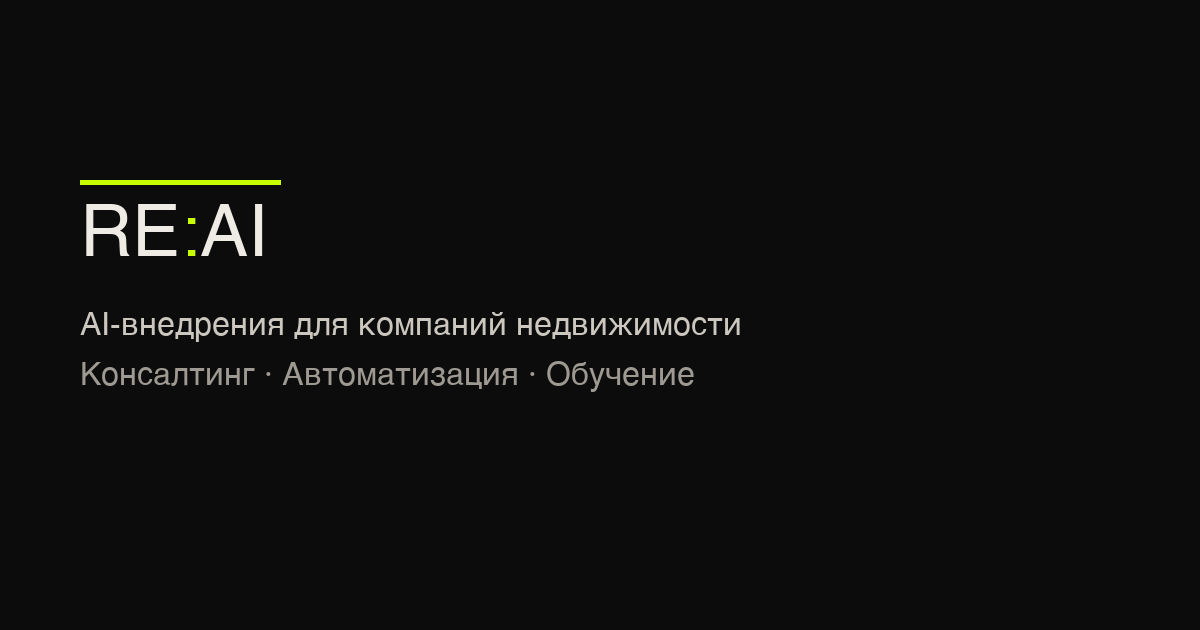
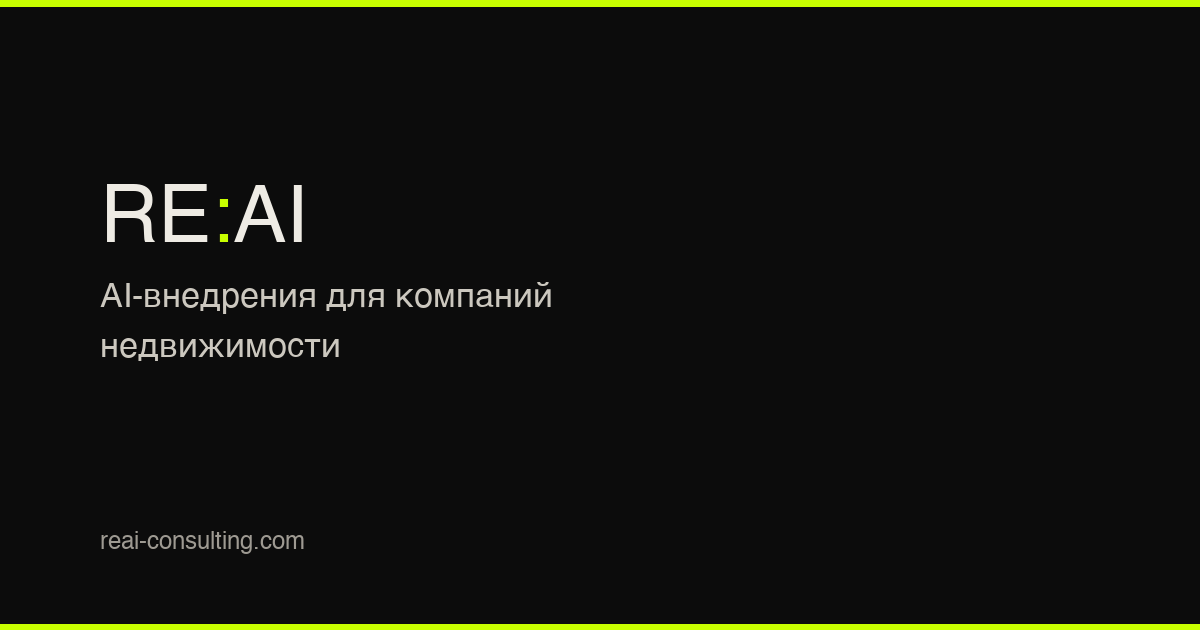
Improve OG preview, compress team photo (1.7MB→126KB), add meta tags
- Better OG image with branding
- og:image:width/height + twitter:image for Telegram/social previews
- theme-color + apple-mobile-web-app meta tags
- Team photo compressed and resized

diff --git a/src/index.html b/src/index.html
@@ -32,11 +32,18 @@
 <meta property="og:url" content="https://reai-consulting.com/">
 <meta property="og:locale" content="ru_RU">
 <meta property="og:image" content="https://reai-consulting.com/images/og-image.png">
+<meta property="og:image:width" content="1200">
+<meta property="og:image:height" content="630">
+<meta property="og:site_name" content="RE:AI">
 <meta name="twitter:card" content="summary_large_image">
 <meta name="twitter:title" content="RE:AI — AI-внедрения для недвижимости">
 <meta name="twitter:description" content="Внедряем AI так, чтобы он приносил деньги. Консалтинг, обучение и готовые продукты для рынка недвижимости.">
+<meta name="twitter:image" content="https://reai-consulting.com/images/og-image.png">
 <meta name="robots" content="index, follow">
 <link rel="canonical" href="https://reai-consulting.com/">
+<meta name="theme-color" content="#0c0c0c">
+<meta name="apple-mobile-web-app-capable" content="yes">
+<meta name="apple-mobile-web-app-status-bar-style" content="black-translucent">
 <link rel="icon" type="image/x-icon" href="/favicon.ico">
 <link rel="icon" type="image/png" sizes="32x32" href="/images/favicon-32.png">
 <link rel="icon" type="image/png" sizes="16x16" href="/images/favicon-16.png">
